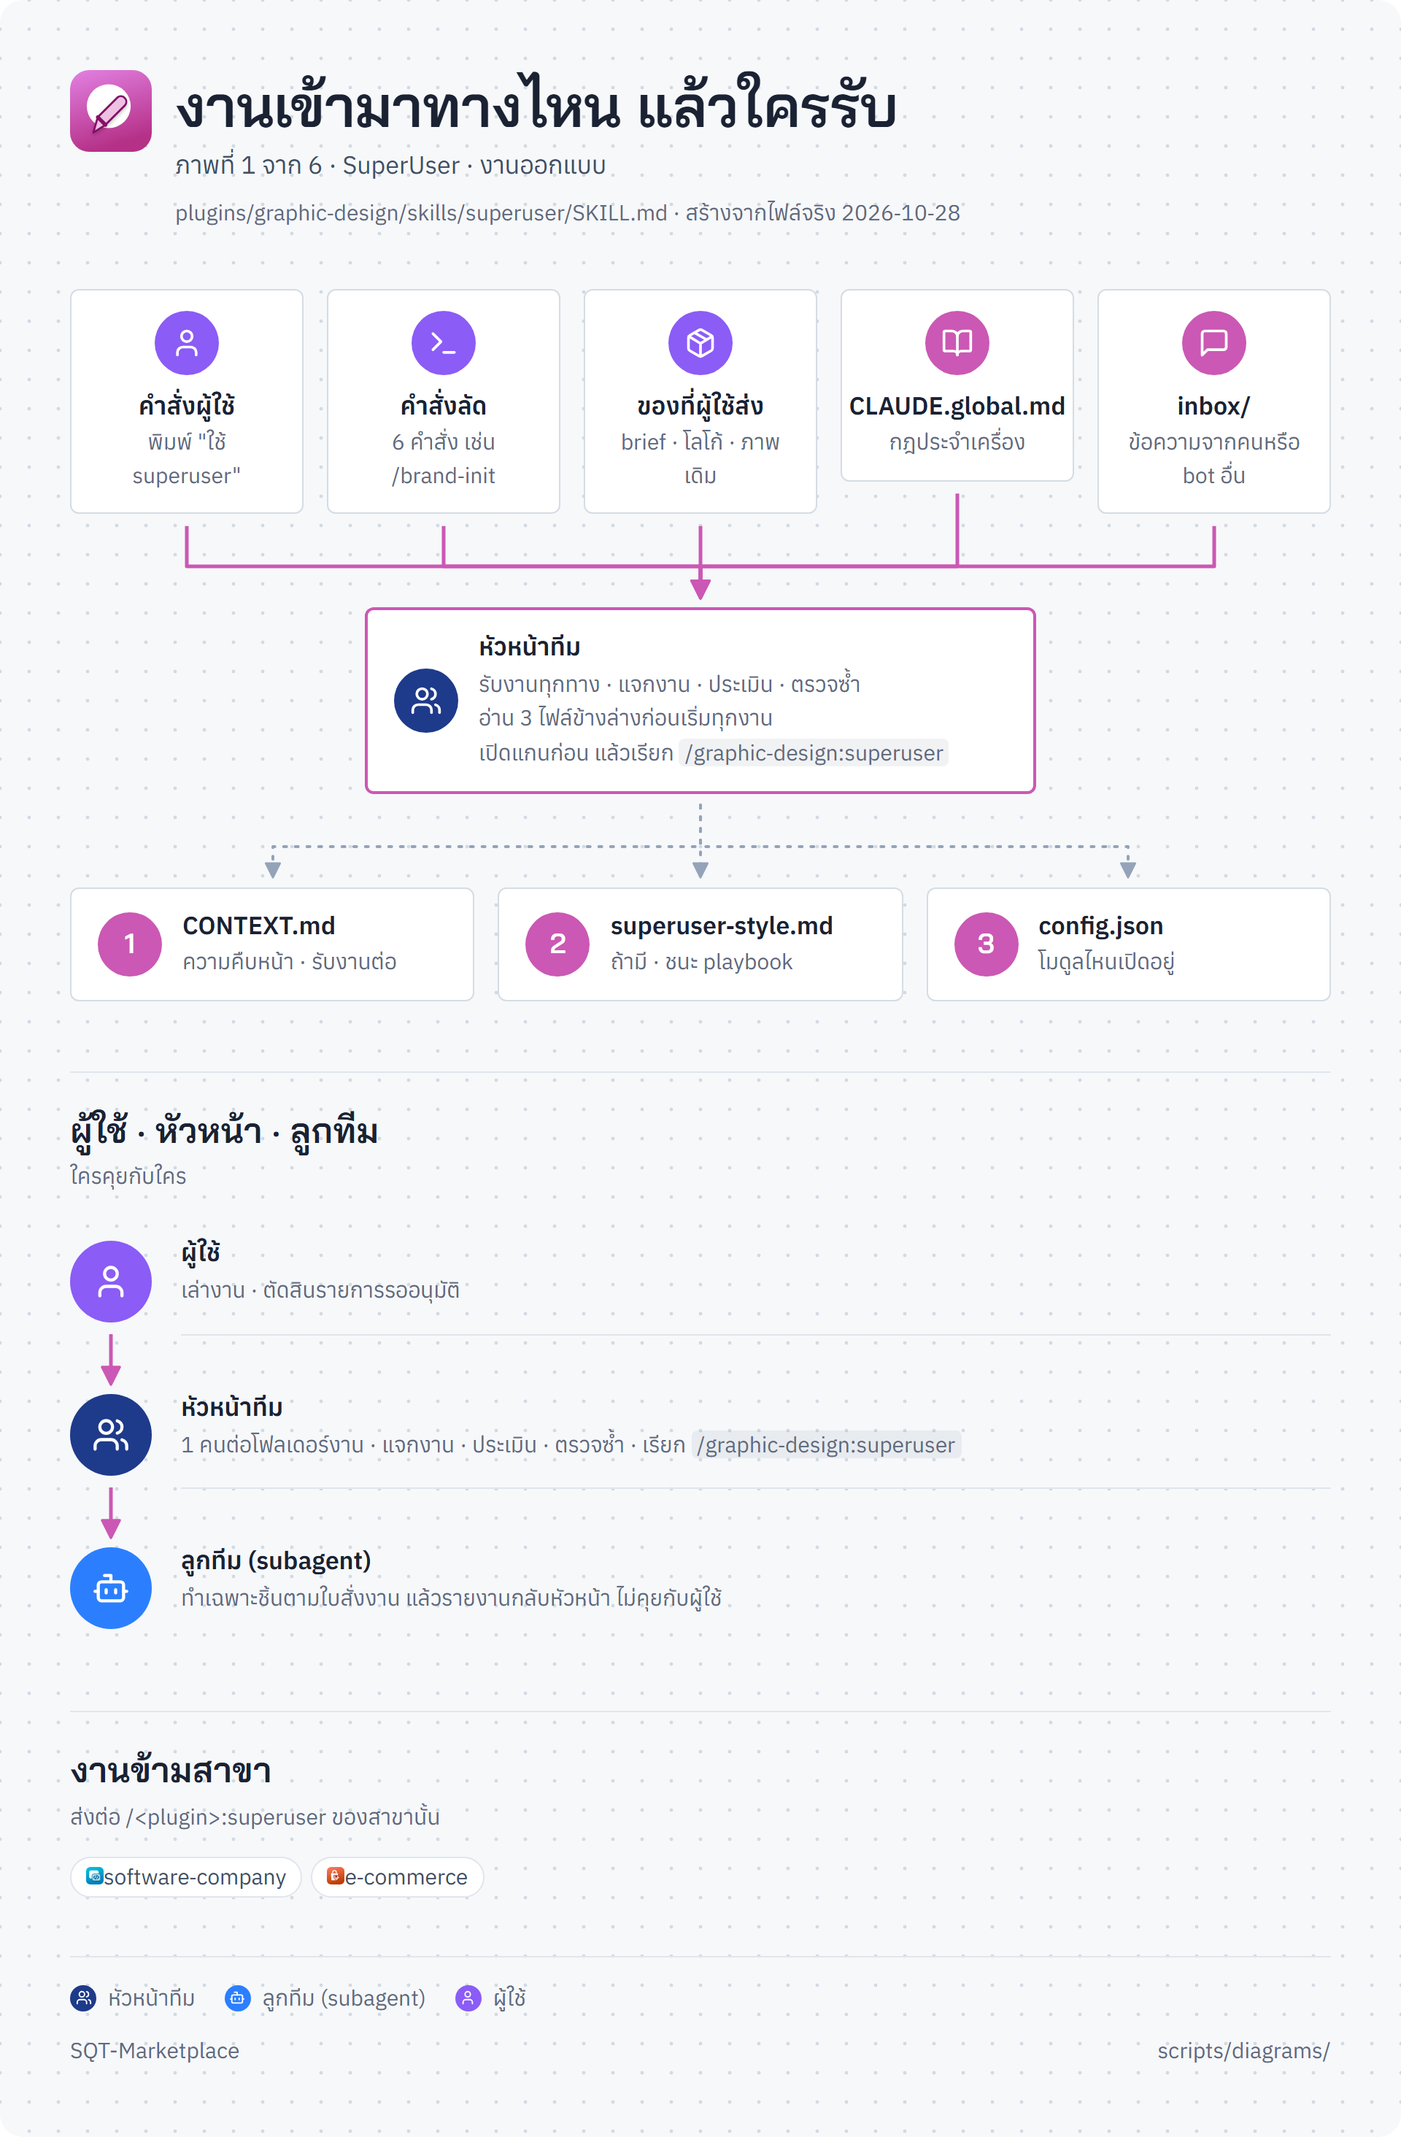
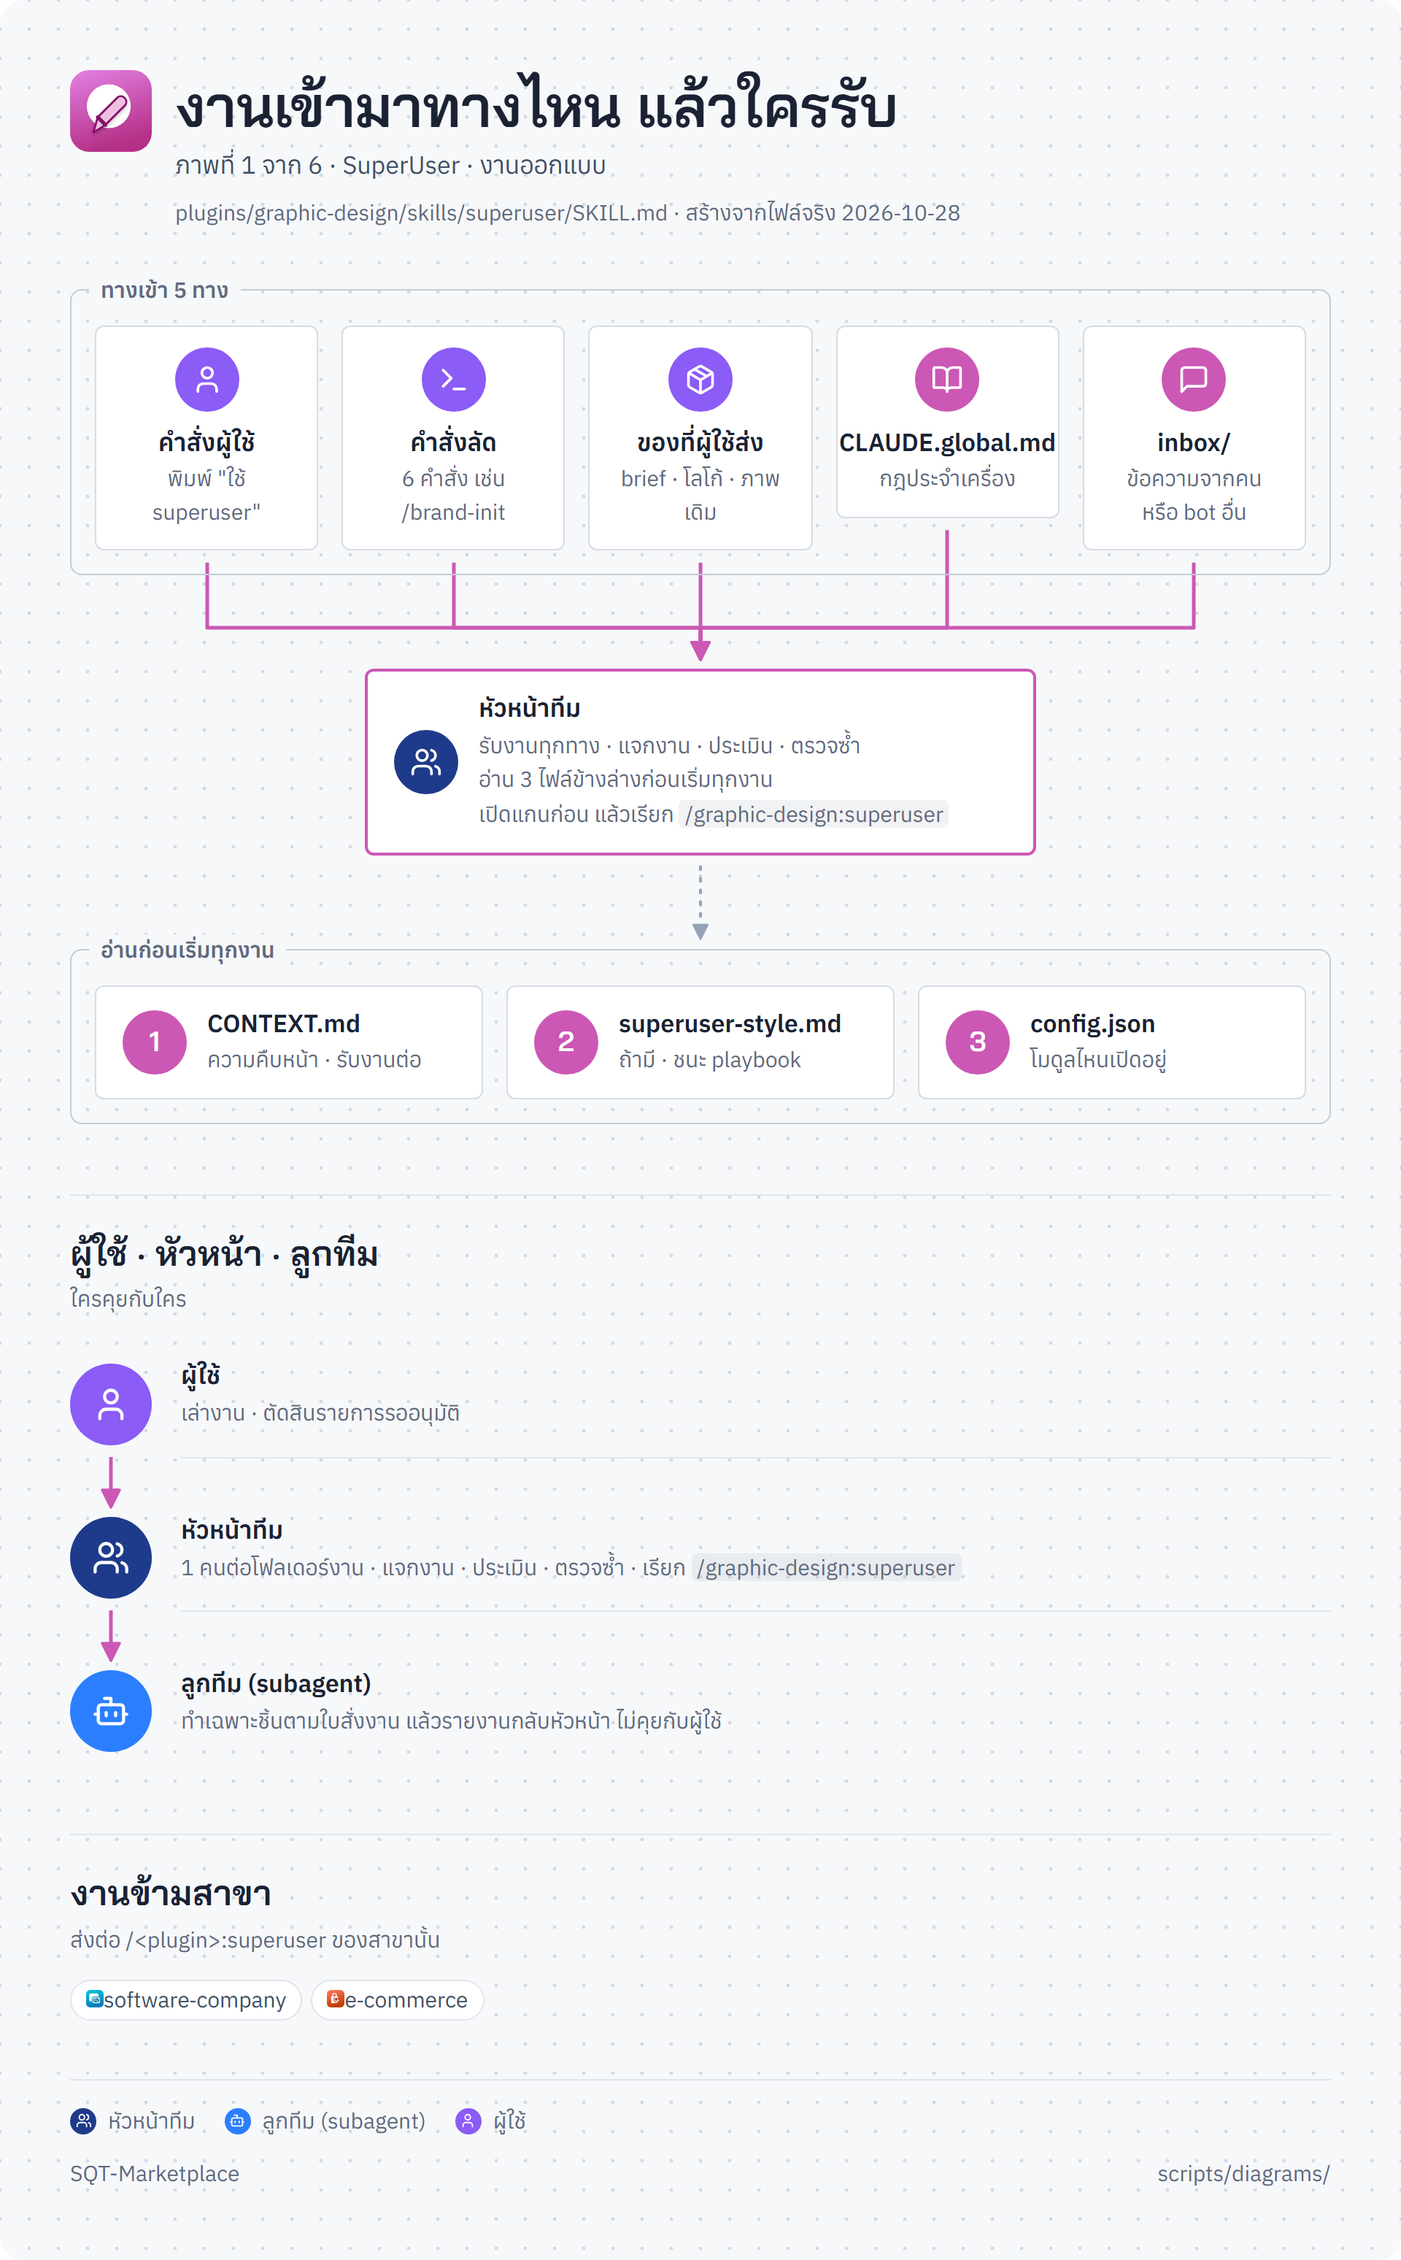
docs(diagrams): ของที่อยู่ระดับเดียวกันมีกรอบล้อมพร้อมชื่อกลุ่ม
- kit: group() กรอบเส้นเดียวไม่มีพื้น ชื่อกลุ่มทับขอบบน (capb = ขอบล่าง) · เส้นที่เข้าออกกลุ่มหักมุมนอกกรอบ
- แผนผัง plugin: กลุ่ม ทางเข้า · agent N ตัว
- flow 1: ทางเข้า 5 ทาง · อ่านก่อนเริ่มทุกงาน (เส้นเดียวเข้ากรอบ) · flow 4: เลือก 1 ใน 3 ทาง
- ภาพรวม: plugin สาขา 5 ตัว รับเส้นเดียวจากแกนกลาง

diff --git a/scripts/diagrams/kit/kit.js b/scripts/diagrams/kit/kit.js
@@ -29,7 +29,7 @@
 // ประกาศเส้นใน HTML: <svg class="wires" data-wires='[["a","b"],["b","c","main"],["c","d","dash"]]'></svg>
 // ชนิดเส้น (ช่องที่ 3 รวมกันได้): main = สีของ plugin · dash = เส้นประ · back = ย้อนขึ้นทางช่องซ้ายของวง · t = ลำต้น (ลงตรงจากต้นทาง แล้วเลี้ยวเข้าข้างปลายทาง)
 // "a" "b" คือ id ของ .dot · แนวเดียวกัน = เส้นตรง · ปลายทางอยู่ต่ำกว่า = ลงก่อน เลี้ยวกลางทาง แล้วลงเข้าบน (หลายเส้นจากแถวเดียวกันรวมเป็นราง)
-function route(ra, rb, kind, box) {
+function route(ra, rb, kind, box, ga, gb) {
   var gap = 8, has = function (k) { return kind.split(" ").indexOf(k) >= 0; };
   var ax = Math.round(ra.left + ra.width / 2 - box.left), ay = Math.round(ra.top + ra.height / 2 - box.top);
   var bx = Math.round(rb.left + rb.width / 2 - box.left), by = Math.round(rb.top + rb.height / 2 - box.top);
@@ -49,7 +49,9 @@ function route(ra, rb, kind, box) {
   if (by > ay) {                                        // ปลายทางต่ำกว่า: ลง → นอน → ลง
     var y1 = ay + ha + gap, y2 = by - hb - gap;
     if (Math.abs(ax - bx) < 3) return [[ax, y1], [ax, y2]];
-    var ym = Math.round(Math.max(ay + ha + 16, by - hb - 28));  // วัดจากปลายทาง: หลายเส้นจากการ์ดสูงไม่เท่ากันรวมเป็นรางระดับเดียว
+    // รางนอนวัดจากปลายทาง (หลายเส้นจากการ์ดสูงไม่เท่ากันรวมเป็นระดับเดียว) · ต้นหรือปลายอยู่ในกรอบกลุ่ม → รางอยู่นอกกรอบ
+    var aBot = ga ? ga.bottom - box.top : ay + ha, bTop = gb ? gb.top - box.top : by - hb;
+    var ym = Math.round(Math.max(aBot + 16, bTop - (gb ? 20 : 28)));
     return [[ax, y1], [ax, ym], [bx, ym], [bx, y2]];
   }
   s = bx > ax ? 1 : -1;                                 // ปลายทางสูงกว่า (ไม่ใช่ back): นอน → ขึ้น → นอน
@@ -74,7 +76,9 @@ function draw() {
     list.forEach(function (w, i) {
       var a = document.getElementById(w[0]), b = document.getElementById(w[1]);
       if (!a || !b) { console.warn("wire: ไม่พบ", w); return; }
-      var kind = w[2] || "", pts = route(a.getBoundingClientRect(), b.getBoundingClientRect(), kind, box);
+      // กรอบกลุ่มที่ล้อมต้นทางหรือปลายทาง (ไม่นับกรอบที่ล้อมทั้งสองฝั่ง)
+      var grp = function (x, y) { var g = x.closest(".group"); return g && !g.contains(y) ? g.getBoundingClientRect() : null; };
+      var kind = w[2] || "", pts = route(a.getBoundingClientRect(), b.getBoundingClientRect(), kind, box, grp(a, b), grp(b, a));
       var main = kind.split(" ").indexOf("main") >= 0;
       svg.append("path").attr("d", line(pts)).attr("class", kind).attr("stroke", main ? pc : col)
         .attr("marker-end", "url(#ah-" + (main ? "m" : "l") + n + ")");

diff --git a/scripts/diagrams/kit/kit.css b/scripts/diagrams/kit/kit.css
@@ -92,3 +92,8 @@ span.nb{white-space:nowrap}
 /* ขั้นในรายการ: ข้อความวางข้างวง คั่นแถวด้วยเส้นบาง แบบคู่มือเทคนิค ไม่ห่อทุกขั้นด้วยการ์ดหน้าตาเดียวกัน */
 .vrow>.card{background:none;border:0;border-bottom:1px solid var(--rule);border-radius:0;padding:6px 0 18px}
 .vlist>.vrow:last-of-type>.card{border-bottom:0}
+
+/* กลุ่มของที่อยู่ระดับเดียวกัน (ผู้ใช้ขอ 2026-10-28): กรอบเส้นเดียว ไม่มีพื้น · ชื่อกลุ่มวางทับขอบบน */
+.group{position:relative;z-index:1;border:1px solid #C3CCD6;border-radius:8px;padding:24px 16px 16px}
+.group.capb{padding:16px 16px 24px}.group.capb>.cap{top:auto;bottom:-11px}
+.group>.cap{position:absolute;top:-11px;left:12px;padding:0 8px;background:var(--bg);font-size:15px;line-height:22px;font-weight:600;color:var(--ink3)}

diff --git a/scripts/diagrams/flow/build_flow.py b/scripts/diagrams/flow/build_flow.py
@@ -173,12 +173,12 @@ def f1(plug, d, r, core):
     cmd = (f"{len(r['cmds'])} คำสั่ง เช่น /{r['cmds'][0]}") if r["cmds"] else "ทางลัด"
     ins = [("คำสั่งผู้ใช้", 'พิมพ์ "ใช้ superuser"', "user", "user"), ("คำสั่งลัด", cmd, "terminal", "user"), (in_t, in_s, "package", "user"),
            ("CLAUDE.global.md", "กฎประจำเครื่อง", "book-open", "pc"), ("inbox/", "ข้อความจากคนหรือ bot อื่น", "message-square", "pc")]
-    top = fan([icard(a, e(b), rl, i, id=f"i{n}", cls="col") for n, (a, b, i, rl) in enumerate(ins)])
+    top = kit.group("ทางเข้า 5 ทาง", fan([icard(a, e(b), rl, i, id=f"i{n}", cls="col") for n, (a, b, i, rl) in enumerate(ins)]))
     lead_x = "" if core else f'<div class="sb">เปิดแกนก่อน แล้วเรียก <code>/{plug}:superuser</code></div>'
     hub = icard("หัวหน้าทีม", "รับงานทุกทาง · แจกงาน · ประเมิน · ตรวจซ้ำ<br>อ่าน 3 ไฟล์ข้างล่างก่อนเริ่มทุกงาน", "core", "users", id="lead", extra=lead_x, cls="hub")
     reads = [("CONTEXT.md", "ความคืบหน้า · รับงานต่อ"), ("superuser-style.md", "ถ้ามี · ชนะ playbook"), ("config.json", "โมดูลไหนเปิดอยู่")]
-    low = fan([icard(a, e(b), "pc", num=n + 1, id=f"r{n}") for n, (a, b) in enumerate(reads)])
-    pairs = [(f"i{n}", "lead", "main") for n in range(5)] + [("lead", f"r{n}", "dash") for n in range(3)]
+    low = kit.group("อ่านก่อนเริ่มทุกงาน", fan([icard(a, e(b), "pc", num=n + 1) for n, (a, b) in enumerate(reads)]), id="reads")
+    pairs = [(f"i{n}", "lead", "main") for n in range(5)] + [("lead", "reads", "dash")]
     lead_det = "แจกงาน · ประเมิน · ตรวจซ้ำ" + ("" if core else f" · เรียก <code>/{plug}:superuser</code>")
     chain = vlist([vstep("ผู้ใช้", "เล่างาน · ตัดสินรายการรออนุมัติ", "c1", "user", "user"),
                    vstep("หัวหน้าทีม", f"1 คนต่อโฟลเดอร์งาน · {lead_det}", "c2", "core", "users"),
@@ -243,11 +243,11 @@ def f4(plug, d, r, core):
     approvals = list(dict.fromkeys(d["appr"] + ["จ่ายเงิน", "ใส่รหัสผ่าน"] if plug != "software-company" else SC["appr"]))
     stop = f'<p style="color:var(--r-gate);font-weight:600">หยุดทันที: {e(d["stop"])}</p>' if d.get("stop") else ""
     hub = icard("ต้องตัดสินใจกลางงาน", "ถามผู้ใช้ครั้งเดียวตอนเริ่ม แล้วเลือกเองตามทางข้างล่าง · จดทุกข้อใต้ ตัดสินใจเอง", "pc", "git-branch", id="q", cls="hub")
-    opts = fan([
+    opts = kit.group("เลือก 1 ใน 3 ทาง", cls="capb", inner=fan([
         icard("ย้อนกลับได้ → ทำเลย", short(d["d1"], 3), "pc", "check", id="b0", cls="col"),
         icard("ไม่รู้ → ค้นเอง", "≥ 3 แหล่งยืนยันตรงกัน · ไม่ครบ → ทางที่ย้อนง่ายสุด + <code>(รอยืนยัน)</code>", "pc", "search", id="b1", cls="col"),
         icard("ย้อนไม่ได้ → รออนุมัติ", "เตรียมให้พร้อมกด แล้วทำส่วนอื่นต่อ", "gate", "hand", id="b2", cls="col",
-              extra=f'<div style="margin-top:10px">{tags(approvals, "gate")}</div>{stop}')])
+              extra=f'<div style="margin-top:10px">{tags(approvals, "gate")}</div>{stop}')]))
     top = f'<div class="layers">{wires([("q", "b0", "dash"), ("q", "b1", "dash"), ("q", "b2", "main")])}{hub}{opts}</div>'
     o4a, o4b = SC["o4"] if plug == "software-company" else d["o4"]
     outs = fan([icard("คำตอบตอนจบ", "3 ระดับ · คาด → จริง", "pc", "message-square", cls="col"),

diff --git a/scripts/diagrams/build.py b/scripts/diagrams/build.py
@@ -40,7 +40,8 @@ EXTRA_CSS = """<style>
 .stage.tb{display:flex;flex-direction:column;gap:56px}
 .entry{max-width:640px}
 .entry .icard{align-self:stretch;justify-content:center}
-.agl{margin-left:76px;display:flex;flex-direction:column;gap:16px}
+.agg{margin-left:76px}  /* เยื้องให้ลำต้นจากวงหัวหน้าทีมลงมาทางซ้ายนอกกรอบ */
+.agl{display:flex;flex-direction:column;gap:16px}
 .vrow .lb .tag{margin-left:8px;vertical-align:middle}
 .nb{white-space:nowrap}
 .band{position:relative;z-index:1;margin-top:48px;padding-top:24px;border-top:1px solid var(--rule)}
@@ -100,8 +101,8 @@ def build_map(plugin):
     if n_cmd:
         ents.append(("สั่งด้วยคำสั่ง", f'<span class="nb">/{e(plugin)}:…</span><br>มี {n_cmd} คำสั่ง'))
     ents.append(("เรียก agent ตรง", "พูดชื่อ agent ได้เลย"))
-    top = (f'<div class="fan entry" style="grid-template-columns:repeat({len(ents)},minmax(0,1fr))">'
-           + "".join(icard(t, s, "user", "user", id=f"en{i}") for i, (t, s) in enumerate(ents)) + "</div>")
+    top = K.group("ทางเข้า", f'<div class="fan" style="grid-template-columns:repeat({len(ents)},minmax(0,1fr))">'
+                  + "".join(icard(t, s, "user", "user", id=f"en{i}") for i, (t, s) in enumerate(ents)) + "</div>", "entry")
     # แถวหัวหน้าทีม: วง plugin + การ์ดขอบสี plugin
     extra_pb = f' <span class="nb">(+{n_shared} ของกลาง)</span>' if n_shared else ""
     lead = (f'<div class="vrow wide">{K.dot("pc", "users", id="focal")}'
@@ -122,7 +123,8 @@ def build_map(plugin):
             sk = agent_skills(a)
             tg = K.tag(f"{len(sk)} skill", "skill") if sk else K.tag("ใช้ skill กลาง", "core")
             rows += agent_row(f"ag{i}", f'<span class="nb">{e(a["name"])}</span>', e(jobs.get(a["name"], "")), tg)
-    stage = f'{top}{lead}<div class="agl">{rows}</div>'
+    unit = "กลุ่ม" if "agent_groups" in labels else "ตัว"
+    stage = f'{top}{lead}' + K.group(f"agent {len(ids)} {unit}", f'<div class="agl">{rows}</div>', "agg")
 
     # แถบ skill
     own = data["core_skills"] if is_su else data["skills"]
@@ -187,9 +189,9 @@ def build_overview(plugins):
     body = K.head("SQT-Marketplace", f"{len(plugins)} plugin ใช้แกนกลางเดียวกัน แต่ละสาขาเติมของสาขาตัวเอง", "superuser",
                   "plugins/*/.claude-plugin/plugin.json",
                   [(len(plugins), "plugin"), (len(su["core_skills"]), "skill กลาง"), (len(su["agents"]), "agent กลาง"), (n_hand, "คู่ plugin ส่งงานหากัน")])
-    pairs = [("su", f"p{k}", "main") for k in range(len(ring))]
+    pairs = [("su", "ring", "main")]  # ทุก plugin สาขาใช้แกนเดียวกัน → เส้นเดียวเข้ากรอบกลุ่ม
     fan = f'<div class="fan p5" style="grid-template-columns:repeat({len(ring)},minmax(0,1fr))">{"".join(cards)}</div>'
-    body += f'<div class="stage tb">{K.wires(pairs)}{hub}{fan}</div>'
+    body += f'<div class="stage tb">{K.wires(pairs)}{hub}{K.group(f"plugin สาขา {len(ring)} ตัว", fan, id="ring")}</div>'
     body += K.legend([], note="ในการ์ด: ส่งงานต่อให้ = plugin ที่รับงานต่อจากสาขานั้น · ตัวเลขในการ์ดไม่นับของกลาง")
     return K.page("marketplace overview", EXTRA_CSS + body, "superuser")
 

diff --git a/scripts/diagrams/kit/kit.py b/scripts/diagrams/kit/kit.py
@@ -38,6 +38,13 @@ def node(label, role="core", sub="", ico=None, size="", id="", num=None, extra="
             + (f'<div class="sb">{e(sub)}</div>' if sub else "") + extra + "</div>")
 
 
+def group(label, inner, cls="", id=""):
+    """กรอบล้อมของที่อยู่ระดับเดียวกัน · ชื่อกลุ่มอยู่บนขอบบน (cls "capb" = ขอบล่าง เมื่อมีเส้นแยกเข้าหลายกล่องทางขอบบน)
+    · ใส่ id แล้วต่อเส้นเข้ากรอบได้เส้นเดียว เมื่อทุกกล่องในกลุ่มรับของเดียวกัน · เส้นที่เข้าออกกลุ่มหักมุมนอกกรอบ (kit.js)"""
+    at = f' id="{id}"' if id else ""
+    return f'<div class="group {cls}"{at}><span class="cap">{e(label)}</span>{inner}</div>'
+
+
 def tag(text, role=""):
     return f'<span class="tag {role}"><i></i>{e(text)}</span>'
 
